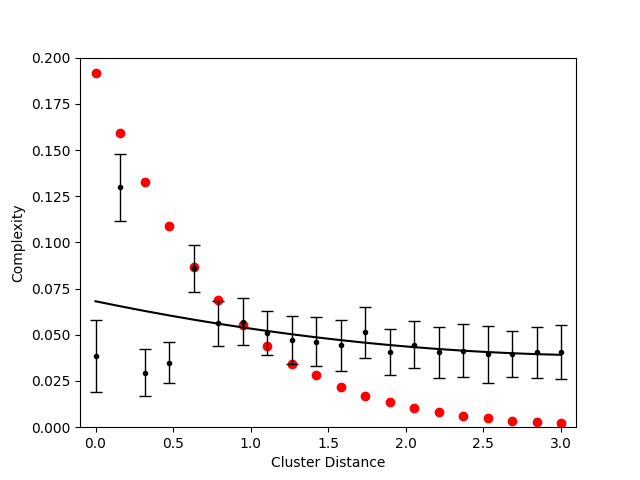
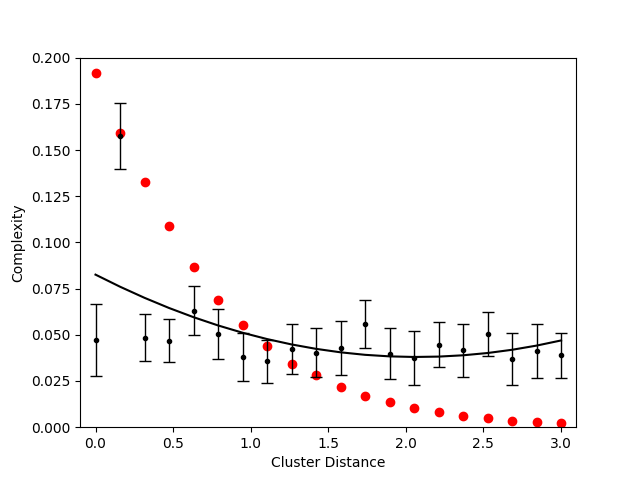
need to fix soon

diff --git a/dev/complexity/distrbiution_exp/model_fit.py b/dev/complexity/distrbiution_exp/model_fit.py
@@ -7,6 +7,7 @@ from sklearn.covariance import ShrunkCovariance
 from sklearn.model_selection import GridSearchCV
 from sklearn.linear_model import LinearRegression, SGDRegressor
 from sklearn import metrics
+from sklearn.preprocessing import StandardScaler
 
 import matplotlib.pyplot as plt
 
@@ -109,7 +110,7 @@ with open('data/results.csv', newline='') as csvfile:
 #print(results)
 
 k = []
-fig, axs = plt.subplots(2, 3)
+fig, axs = plt.subplots(4, 5)
 c = 0
 e = []
 
@@ -134,14 +135,14 @@ for name in results.keys():
 
     # Log the y_data (its too big
     y_data = np.log(y_data)
-    
+
     # Linear regression
     # Ax + B
     #regressor = SVR(kernel='linear', C=10, gamma=5.0, epsilon=0.1)
 
     #regressor.fit(x_data, y_data) #training the algorithm
 
-    parameters = {'kernel':['rbf', 'linear', 'poly', 'sigmoid'], 'C' :[0.0001, 0.01, 10, 100],
+    parameters = {'kernel':['rbf', 'linear', 'sigmoid'], 'C' :[0.0001, 0.01, 10, 100],
                   'gamma': [0.00001,0.1, 10, 100], 'epsilon':[0.00001, 0.1, 10, 100]}
     regressor = GridSearchCV(SVR(max_iter=100000), parameters)
 
@@ -159,11 +160,11 @@ for name in results.keys():
     print('Coefficient of determination: %.2f'
       % metrics.r2_score(y_data, pred))
 
-    axs[c % 2, c % 3].scatter(x_data, y_data)
-    axs[c % 2, c % 3].scatter(x_data, pred)
-    axs[c % 2, c % 3].set_xlabel('Accuracy')
-    axs[c % 2, c % 3].set_ylabel('log(TP)')
-    axs[c % 2, c % 3].set_title(name)
+    axs[int(c/5), c % 5].scatter(x_data, y_data)
+    axs[int(c/5), c % 5].scatter(x_data, pred)
+    axs[int(c/5), c % 5].set_xlabel('Accuracy')
+    axs[int(c/5), c % 5].set_ylabel('log(TP)')
+    axs[int(c/5), c % 5].set_title(round(name, 3))
 
     point = np.reshape(np.asarray([1.0]), (-1,1))
     k.append(regressor.predict(point)[0])
@@ -185,48 +186,6 @@ print(AuC)
 
 print('mse')
 print(mse)
-
-plt.show()
-s = sum(k)
-for ind, val in enumerate(k):
-    k[ind] = val/s
-
-    print(round(k[ind],4))
-
-
-
-e_s = sum(e)
-for ind, val in enumerate(e):
-    e[ind] = val/e_s
-    print(round(e[ind],4))
-
-
-e = [182532.4206179811,
-211904.015471518,
-269661.94757943094,
-434866.9281534464,
-50090.15641089917]
-
-e_s = sum(e)
-for ind, val in enumerate(e):
-    e[ind] = val/e_s
-    print(round(e[ind],4))
-
-import matplotlib.pyplot as plt
-import numpy as np
-
-# construct some data like what you have:
-x = np.random.randn(100, 5)
-mins = x.min(0)
-maxes = x.max(0)
-means = x.mean(0)
-std = x.std(0)
-
-# create stacked errorbars:
-plt.errorbar(np.arange(5), means, std, fmt='ok', lw=3)
-plt.errorbar(np.arange(5), means, [means - mins, maxes - means],
-             fmt='.k', ecolor='gray', lw=1)
-plt.xlim(-1, 5)
 
 plt.show()
 

diff --git a/dev/complexity/distrbiution_exp/plot.py b/dev/complexity/distrbiution_exp/plot.py
@@ -3,8 +3,9 @@ import numpy as np
 import math
 
 # Generated from model_fit.py
-auc = [5.441, 18.2665, 4.1411, 4.922, 12.0947, 7.9286, 8.04, 7.202, 6.6639, 6.5013, 6.2348, 7.2213, 5.7164, 6.2969, 5.697, 5.8069, 5.552, 5.587, 5.69, 5.7445]
-mse = [2.9868, 2.5725, 1.2721, 0.9474, 1.2529, 1.1477, 1.2527, 1.1159, 1.3252, 1.3744, 1.4478, 1.4873, 1.231, 1.2136, 1.4452, 1.6062, 1.8803, 1.2004, 1.5011, 1.6519]
+auc = [5.441, 18.1083, 5.5733, 5.3867, 7.2495, 5.7799, 4.3935, 4.0923, 4.8699, 4.6452, 4.9111, 6.4134, 4.5814, 4.3172, 5.137, 4.773, 5.797, 4.2372, 4.7615, 4.4592]
+mse = [3.0413, 2.5981, 1.275, 1.0541, 1.4604, 1.4957, 1.3555, 1.1132, 1.4435, 1.3915, 1.6932, 1.3368, 1.4956, 1.7053, 1.2076, 1.6593, 1.1313, 1.609, 1.7217, 1.1933]
+
 
 
 # Generated from overlap.py
